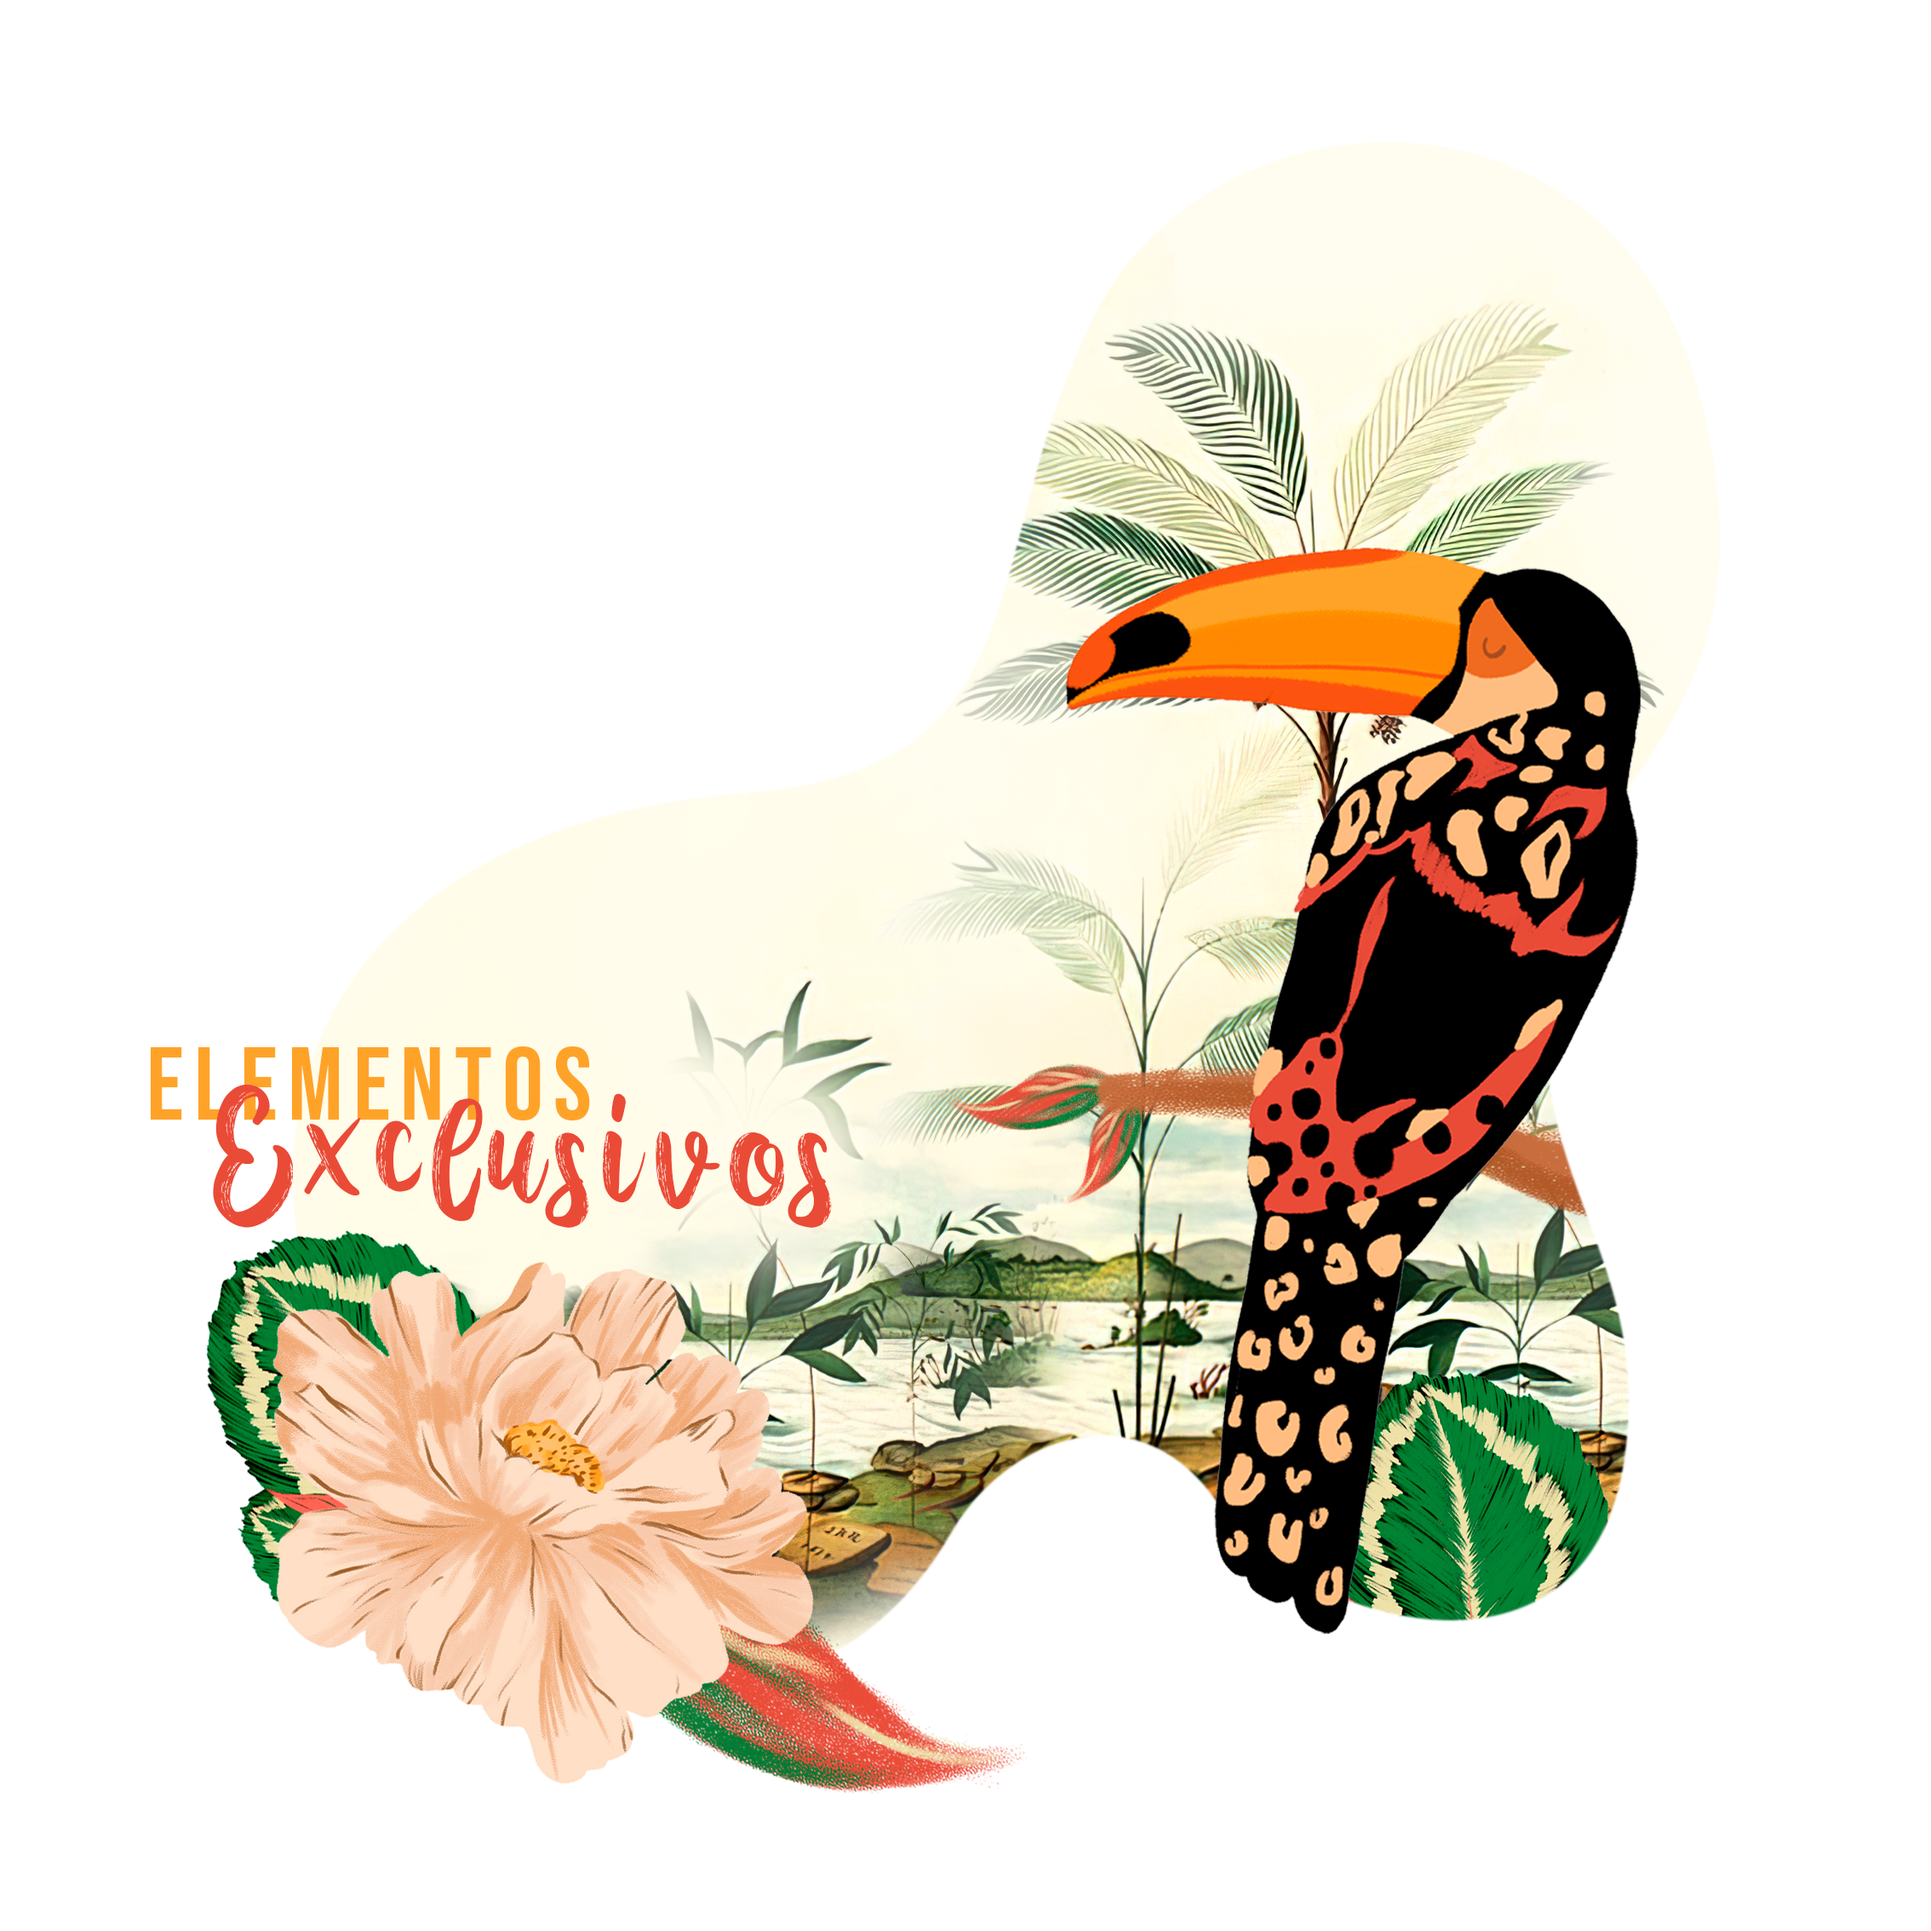
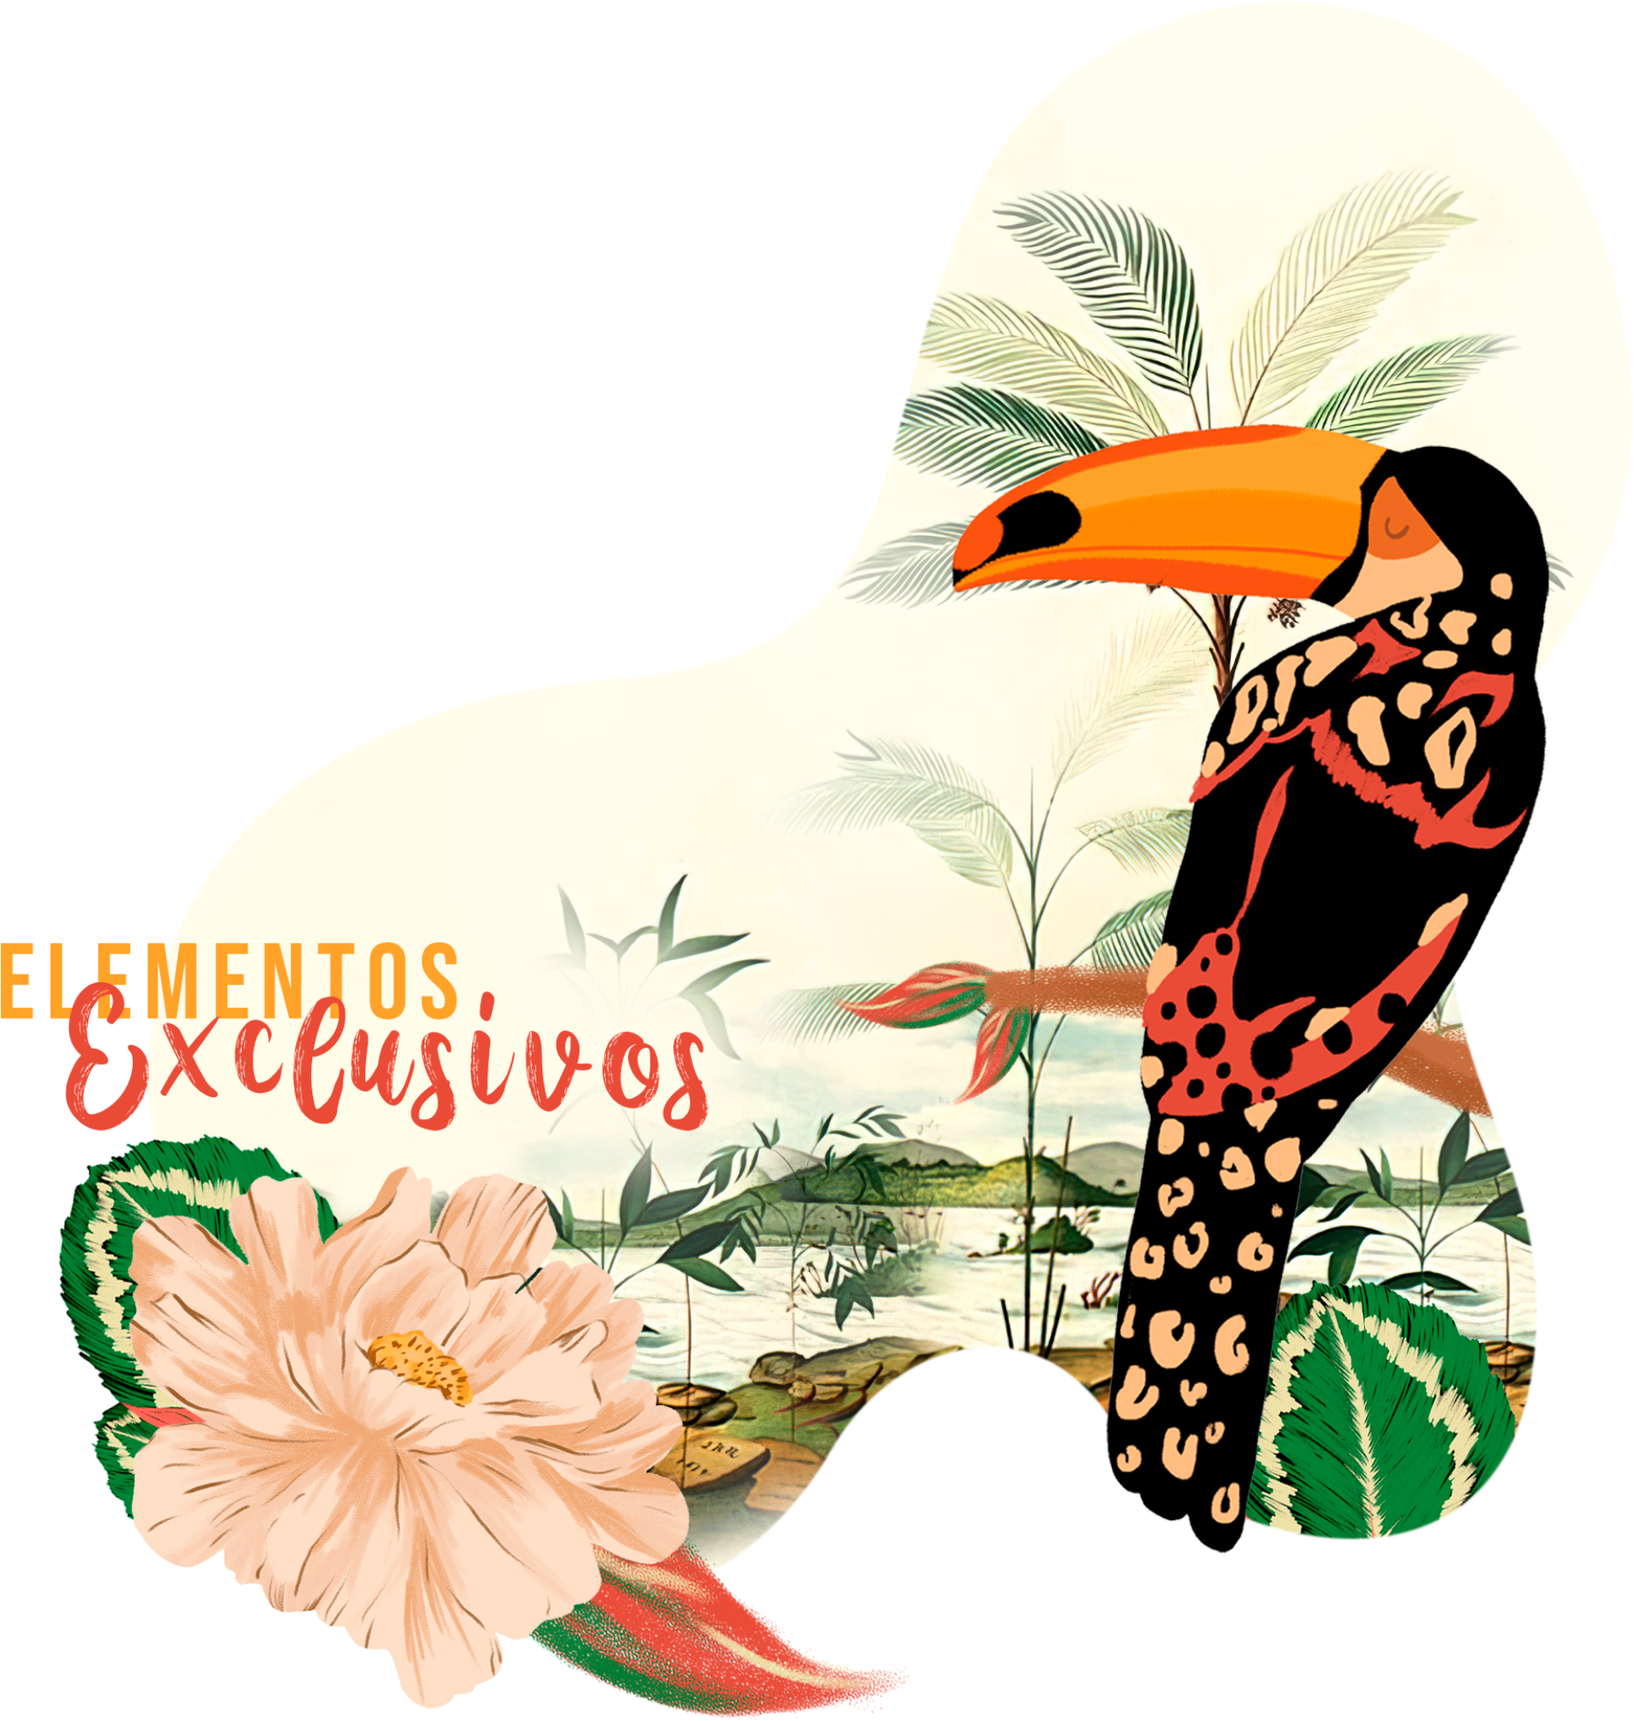
Crop background

diff --git a/src/assets/pages/Home.js b/src/assets/pages/Home.js
@@ -18,40 +18,40 @@ import flower from '../images/flower.png'
 import macaw from '../images/macaw.png'
 
 export default function Home() {
-    const [ position, setPosition ] = useState('absolute')
-    const [ top, setTop ] = useState('35%')
-    const [ width, setWidth ] = useState('340px')
+    const [position, setPosition] = useState('absolute')
+    const [top, setTop] = useState('35%')
+    const [width, setWidth] = useState('340px')
 
-    const [ channel, setChannel ] = useState(0)
-    const [ name, setName ] = useState("")
-    const [ message, setMessage ] = useState("")
+    const [channel, setChannel] = useState(0)
+    const [name, setName] = useState("")
+    const [message, setMessage] = useState("")
 
     window.onscroll = () => {
         document.addEventListener('scroll', () => {
-            if( document.documentElement.scrollTop > 325 ) {
-                setPosition( 'fixed' )
-                setTop( '2.2%' )
-                setWidth( '220px' )
+            if (document.documentElement.scrollTop > 325) {
+                setPosition('fixed')
+                setTop('2.2%')
+                setWidth('220px')
             } else {
-                setPosition( 'absolute' )
+                setPosition('absolute')
                 setTop('35%')
-                setWidth( '340px' )
+                setWidth('340px')
             }
         })
     }
 
     function _handlePosition() {
         return {
-            position : position,
-            top : top,
-            width : width,
-            transition : 'width 0.6s'
+            position: position,
+            top: top,
+            width: width,
+            transition: 'width 0.6s'
         }
     }
 
     return (
         <>
-            <div id='menu' 
+            <div id='menu'
                 className="nav"
             >
                 <div className='max-container' >
@@ -63,7 +63,7 @@ export default function Home() {
                         Home
                     </Link>
 
-                    <Link 
+                    <Link
                         to="quem-somos"
                         smooth={true}
                         duration={500}
@@ -71,7 +71,7 @@ export default function Home() {
                         Quem somos
                     </Link>
 
-                    <Link 
+                    <Link
                         to="estampas"
                         smooth={true}
                         duration={500}
@@ -79,7 +79,7 @@ export default function Home() {
                         Nossas Estampas
                     </Link>
 
-                    <Link 
+                    <Link
                         to="fale-conosco"
                         smooth={true}
                         duration={500}
@@ -89,14 +89,14 @@ export default function Home() {
                 </div>
             </div>
 
-            <div id='logo' 
+            <div id='logo'
                 className='logo'
-                style={ _handlePosition() }
+                style={_handlePosition()}
             >
                 <img src={logo} alt="" />
             </div>
-            
-            <div id='home' 
+
+            <div id='home'
                 className='container'
             >
                 <img className="background" src={background} alt="" />
@@ -104,10 +104,10 @@ export default function Home() {
 
             <div id='quem-somos' className='container quem-somos max-container'>
                 <div className='imagem'>
-                    <img src={ imgQuemSomos } alt="" />
+                    <img src={imgQuemSomos} alt="" />
                 </div>
                 <div className="container-text">
-                    <img src={ quemSomos } alt="" />
+                    <img src={quemSomos} alt="" />
                     <div className="text">
                         <p>
                             Olá, somos do Estúdio Dana, me chamo Carla, sou maquiadora profissional há 4 anos e trabalho em conjunto com meu esposo Carlos que já atua no mercado de estamparia e ilustração digitais há 8 anos.
@@ -119,39 +119,38 @@ export default function Home() {
                             Assim, surgiu a necessidade de montar nosso próprio negócio, e então nasceu Dana. Nosso foco é em estampas exclusivas, com a maioria dos elementos desenhados à mão, personalizados a gosto do cliente para que você possa sentir carinho e atenção através de cada estampa.
                         </p>
                     </div>
-                    <img className='toucan' src={ toucan } alt="" />
+                    <img className='toucan' src={toucan} alt="" />
                 </div>
             </div>
 
             <div id='estampas' className='container nossas-estampas'>
                 <div className="container-banner">
                     <div className="text-banner">
-                        <img src={ estampasExclusivas } alt="" />
-                        <img className='flower' src={ flower } alt="" />
+                        <img src={estampasExclusivas} alt="" />
+                        <img className='flower' src={flower} alt="" />
                         <p>
-                        Somos especializados em transformar suas ideias em criações unicas, dentro das mais recentes tendências do mercado!
+                            Somos especializados em transformar suas ideias em criações unicas, dentro das mais recentes tendências do mercado!
                         </p>
                     </div>
                 </div>
                 <div className="container-estampas max-container">
                     <div className="title">
-                        <img src={ nossasEstampas } alt="" />
-                        <img id='macaw' src={ macaw } alt="" />
+                        <img src={nossasEstampas} alt="" />
+                        <img id='macaw' src={macaw} alt="" />
                     </div>
                     <div className="images">
-                        Imagens
                     </div>
                 </div>
             </div>
 
             <div id='fale-conosco' className='container fale-conosco'>
                 <form id='form'>
-                    <img src={ faleConosco } alt="" />
+                    <img src={faleConosco} alt="" />
 
                     <label> Canal </label>
-                    <select 
+                    <select
                         defaultValue={0}
-                        onChange={ e => setChannel(parseInt(e.target.value)) }
+                        onChange={e => setChannel(parseInt(e.target.value))}
                     >
                         <option value={0} disabled>Selecione o canal</option>
                         <option value={1} >Whatsapp</option>
@@ -159,43 +158,43 @@ export default function Home() {
                     </select>
 
                     <label> Seu nome </label>
-                    <input 
-                        placeholder="ex.: Thomas Magno" 
-                        value={ name } 
-                        onChange={ e => setName(e.target.value) } 
+                    <input
+                        placeholder="ex.: Thomas Magno"
+                        value={name}
+                        onChange={e => setName(e.target.value)}
                     />
 
                     <label> Mensagem </label>
-                    <textarea 
-                        value={ message } 
-                        onChange={ e => setMessage(e.target.value) } 
-                        placeholder="Deixe sua mensagem aqui, que iremos responder com todo carinho ;)" 
+                    <textarea
+                        value={message}
+                        onChange={e => setMessage(e.target.value)}
+                        placeholder="Deixe sua mensagem aqui, que iremos responder com todo carinho ;)"
                     />
 
-                    <button 
+                    <button
                         id="button"
                         type="button"
-                        onClick={ () => {
+                        onClick={() => {
                             switch (channel) {
                                 case 1:
                                     window.open(
-                                        `whatsapp://send?phone=17623096714&text=Olá me chamo ${ name }, ${message}`, 
+                                        `whatsapp://send?phone=17623096714&text=Olá me chamo ${name}, ${message}`,
                                         '_blank'
                                     )
                                     break;
                                 case 2:
                                     window.open(
-                                        `mailto:estudiodana.cs@gmail.com? Subject: Mais informações sobre as estampas exclusivas&body=Olá me chamo ${ name }, ${ message }`,
+                                        `mailto:estudiodana.cs@gmail.com? Subject: Mais informações sobre as estampas exclusivas&body=Olá me chamo ${name}, ${message}`,
                                         '_blank'
                                     )
                                     break;
                                 default:
-                                    alert( "Selecione primeiro por qual canal deseja nós enviar sua mensagem." )
+                                    alert("Selecione primeiro por qual canal deseja nós enviar sua mensagem.")
                                     break;
                             }
                         }}
                     >
-                        Enviar 
+                        Enviar
                     </button>
                 </form>
 
@@ -203,12 +202,12 @@ export default function Home() {
                     <div className="max-container">
                         <p>Copyright © 2021 Estúdio Dana, Todos os direitos reservados.</p>
                         <div id='social-media'>
-                            <a 
+                            <a
                                 target='_blank'
                                 rel="noreferrer"
                                 href="https://instagram.com/estudio_dana"
-                            > 
-                                <img src={ instagram } alt="Instaram" /> 
+                            >
+                                <img src={instagram} alt="Instaram" />
                             </a>
                             {/* <a 
                                 target='_blank'
@@ -217,12 +216,12 @@ export default function Home() {
                             > 
                                 <img src={ facebook } alt="Facebook" />  
                             </a> */}
-                            <a 
+                            <a
                                 target='_blank'
                                 rel="noreferrer"
                                 href="https://pinterest.com/estudio_dana"
-                            > 
-                                <img src={ pinterest } alt="Pinterest" />
+                            >
+                                <img src={pinterest} alt="Pinterest" />
                             </a>
                         </div>
                     </div>
